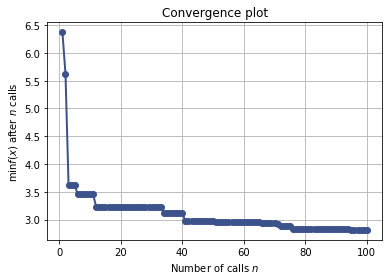
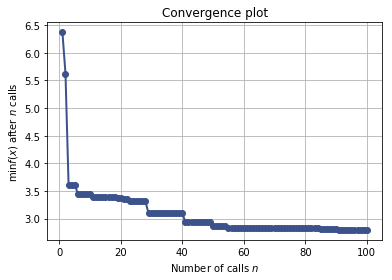
Pushing the docs for revision for branch: master, commit efb365e90501e20db09acf47596db9e94e002c56

diff --git a/notebooks/bayesian-optimization.html b/notebooks/bayesian-optimization.html
@@ -1223,50 +1223,50 @@ controlling the exploration-exploitation trade-off.
              kernel=1**2 * Matern(length_scale=1, nu=2.5) + WhiteKernel(noise_level=0.01),
              n_restarts_optimizer=2, noise=0.010000000000000002,
              normalize_y=True, optimizer=&#39;fmin_l_bfgs_b&#39;,
-             random_state=&lt;mtrand.RandomState object at 0x7f1e6af8ebd0&gt;), GaussianProcessRegressor(alpha=0.0, copy_X_train=True,
+             random_state=&lt;mtrand.RandomState object at 0x7f6cd4b73bd0&gt;), GaussianProcessRegressor(alpha=0.0, copy_X_train=True,
              kernel=1**2 * Matern(length_scale=1, nu=2.5) + WhiteKernel(noise_level=0.01),
              n_restarts_optimizer=2, noise=0.010000000000000002,
              normalize_y=True, optimizer=&#39;fmin_l_bfgs_b&#39;,
-             random_state=&lt;mtrand.RandomState object at 0x7f1e6afa0870&gt;), GaussianProcessRegressor(alpha=0.0, copy_X_train=True,
+             random_state=&lt;mtrand.RandomState object at 0x7f6cd4b85870&gt;), GaussianProcessRegressor(alpha=0.0, copy_X_train=True,
              kernel=1**2 * Matern(length_scale=1, nu=2.5) + WhiteKernel(noise_level=0.01),
              n_restarts_optimizer=2, noise=0.010000000000000002,
              normalize_y=True, optimizer=&#39;fmin_l_bfgs_b&#39;,
-             random_state=&lt;mtrand.RandomState object at 0x7f1e6afa0c60&gt;), GaussianProcessRegressor(alpha=0.0, copy_X_train=True,
+             random_state=&lt;mtrand.RandomState object at 0x7f6cd4b85c60&gt;), GaussianProcessRegressor(alpha=0.0, copy_X_train=True,
              kernel=1**2 * Matern(length_scale=1, nu=2.5) + WhiteKernel(noise_level=0.01),
              n_restarts_optimizer=2, noise=0.010000000000000002,
              normalize_y=True, optimizer=&#39;fmin_l_bfgs_b&#39;,
-             random_state=&lt;mtrand.RandomState object at 0x7f1e6afa08b8&gt;), GaussianProcessRegressor(alpha=0.0, copy_X_train=True,
+             random_state=&lt;mtrand.RandomState object at 0x7f6cd4b858b8&gt;), GaussianProcessRegressor(alpha=0.0, copy_X_train=True,
              kernel=1**2 * Matern(length_scale=1, nu=2.5) + WhiteKernel(noise_level=0.01),
              n_restarts_optimizer=2, noise=0.010000000000000002,
              normalize_y=True, optimizer=&#39;fmin_l_bfgs_b&#39;,
-             random_state=&lt;mtrand.RandomState object at 0x7f1e6af9aea0&gt;), GaussianProcessRegressor(alpha=0.0, copy_X_train=True,
+             random_state=&lt;mtrand.RandomState object at 0x7f6cd4b76ea0&gt;), GaussianProcessRegressor(alpha=0.0, copy_X_train=True,
              kernel=1**2 * Matern(length_scale=1, nu=2.5) + WhiteKernel(noise_level=0.01),
              n_restarts_optimizer=2, noise=0.010000000000000002,
              normalize_y=True, optimizer=&#39;fmin_l_bfgs_b&#39;,
-             random_state=&lt;mtrand.RandomState object at 0x7f1e75dc87e0&gt;), GaussianProcessRegressor(alpha=0.0, copy_X_train=True,
+             random_state=&lt;mtrand.RandomState object at 0x7f6cdf9ad708&gt;), GaussianProcessRegressor(alpha=0.0, copy_X_train=True,
              kernel=1**2 * Matern(length_scale=1, nu=2.5) + WhiteKernel(noise_level=0.01),
              n_restarts_optimizer=2, noise=0.010000000000000002,
              normalize_y=True, optimizer=&#39;fmin_l_bfgs_b&#39;,
-             random_state=&lt;mtrand.RandomState object at 0x7f1e75dc8360&gt;), GaussianProcessRegressor(alpha=0.0, copy_X_train=True,
+             random_state=&lt;mtrand.RandomState object at 0x7f6cdf9add80&gt;), GaussianProcessRegressor(alpha=0.0, copy_X_train=True,
              kernel=1**2 * Matern(length_scale=1, nu=2.5) + WhiteKernel(noise_level=0.01),
              n_restarts_optimizer=2, noise=0.010000000000000002,
              normalize_y=True, optimizer=&#39;fmin_l_bfgs_b&#39;,
-             random_state=&lt;mtrand.RandomState object at 0x7f1e75e332d0&gt;), GaussianProcessRegressor(alpha=0.0, copy_X_train=True,
+             random_state=&lt;mtrand.RandomState object at 0x7f6cdfa18048&gt;), GaussianProcessRegressor(alpha=0.0, copy_X_train=True,
              kernel=1**2 * Matern(length_scale=1, nu=2.5) + WhiteKernel(noise_level=0.01),
              n_restarts_optimizer=2, noise=0.010000000000000002,
              normalize_y=True, optimizer=&#39;fmin_l_bfgs_b&#39;,
-             random_state=&lt;mtrand.RandomState object at 0x7f1e75e33240&gt;), GaussianProcessRegressor(alpha=0.0, copy_X_train=True,
+             random_state=&lt;mtrand.RandomState object at 0x7f6cdfa18dc8&gt;), GaussianProcessRegressor(alpha=0.0, copy_X_train=True,
              kernel=1**2 * Matern(length_scale=1, nu=2.5) + WhiteKernel(noise_level=0.01),
              n_restarts_optimizer=2, noise=0.010000000000000002,
              normalize_y=True, optimizer=&#39;fmin_l_bfgs_b&#39;,
-             random_state=&lt;mtrand.RandomState object at 0x7f1e75e33510&gt;)]
- random_state: &lt;mtrand.RandomState object at 0x7f1e6af8e3a8&gt;
+             random_state=&lt;mtrand.RandomState object at 0x7f6cdfa182d0&gt;)]
+ random_state: &lt;mtrand.RandomState object at 0x7f6cd4b733a8&gt;
         space: Space([Real(low=-2.0, high=2.0, prior=uniform, transform=identity)])
         specs: {&#39;args&#39;: {&#39;n_jobs&#39;: 1, &#39;kappa&#39;: 1.96, &#39;xi&#39;: 0.01, &#39;n_restarts_optimizer&#39;: 5, &#39;n_points&#39;: 10000, &#39;callback&#39;: None, &#39;verbose&#39;: False, &#39;random_state&#39;: 123, &#39;y0&#39;: None, &#39;x0&#39;: None, &#39;acq_optimizer&#39;: &#39;lbfgs&#39;, &#39;acq_func&#39;: &#39;EI&#39;, &#39;n_random_starts&#39;: 5, &#39;n_calls&#39;: 15, &#39;base_estimator&#39;: GaussianProcessRegressor(alpha=0.0, copy_X_train=True,
              kernel=1**2 * Matern(length_scale=1, nu=2.5),
              n_restarts_optimizer=2, noise=0.010000000000000002,
              normalize_y=True, optimizer=&#39;fmin_l_bfgs_b&#39;,
-             random_state=&lt;mtrand.RandomState object at 0x7f1e6af8aa68&gt;), &#39;dimensions&#39;: [(-2.0, 2.0)], &#39;func&#39;: &lt;function f at 0x7f1e78751e18&gt;}, &#39;function&#39;: &#39;base_minimize&#39;}
+             random_state=&lt;mtrand.RandomState object at 0x7f6cd4b6fa68&gt;), &#39;dimensions&#39;: [(-2.0, 2.0)], &#39;func&#39;: &lt;function f at 0x7f6ce2336e18&gt;}, &#39;function&#39;: &#39;base_minimize&#39;}
             x: [-0.31431138440779044]
       x_iters: [[0.785876742391447], [-0.85544266019848192], [-1.0925941857431873], [0.20525907633156537], [0.87787587914225274], [1.0930078275284341], [-1.5825827673513784], [-1.8740230637856119], [2.0], [1.5920603878809245], [-1.3948575246313788], [0.91055125717293051], [-0.38405568669965967], [-0.31431138440779044], [-0.30894059735758106]]
 </pre></div>

diff --git a/index.html b/index.html
@@ -3024,9 +3024,9 @@ bayesian optimisation loop.</p>
                                    <span class="s2">&quot;model has been fit.&quot;</span><span class="p">)</span>
 
             <span class="n">next_x</span> <span class="o">=</span> <span class="bp">self</span><span class="o">.</span><span class="n">_next_x</span>
-            <span class="n">min_delta_x</span> <span class="o">=</span> <span class="n">np</span><span class="o">.</span><span class="n">min</span><span class="p">([</span><span class="bp">self</span><span class="o">.</span><span class="n">space</span><span class="o">.</span><span class="n">distance</span><span class="p">(</span><span class="n">next_x</span><span class="p">,</span> <span class="n">xi</span><span class="p">)</span>
-                                  <span class="k">for</span> <span class="n">xi</span> <span class="ow">in</span> <span class="bp">self</span><span class="o">.</span><span class="n">Xi</span><span class="p">])</span>
-            <span class="k">if</span> <span class="n">np</span><span class="o">.</span><span class="n">allclose</span><span class="p">(</span><span class="n">min_delta_x</span><span class="p">,</span> <span class="mf">0.</span><span class="p">):</span>
+            <span class="n">min_delta_x</span> <span class="o">=</span> <span class="nb">min</span><span class="p">([</span><span class="bp">self</span><span class="o">.</span><span class="n">space</span><span class="o">.</span><span class="n">distance</span><span class="p">(</span><span class="n">next_x</span><span class="p">,</span> <span class="n">xi</span><span class="p">)</span>
+                               <span class="k">for</span> <span class="n">xi</span> <span class="ow">in</span> <span class="bp">self</span><span class="o">.</span><span class="n">Xi</span><span class="p">])</span>
+            <span class="k">if</span> <span class="nb">abs</span><span class="p">(</span><span class="n">min_delta_x</span><span class="p">)</span> <span class="o">&lt;=</span> <span class="mf">1e-8</span><span class="p">:</span>
                 <span class="n">warnings</span><span class="o">.</span><span class="n">warn</span><span class="p">(</span><span class="s2">&quot;The objective has been evaluated &quot;</span>
                               <span class="s2">&quot;at this point before.&quot;</span><span class="p">)</span>
 
@@ -3259,9 +3259,9 @@ that <code>base_estimator</code> is used to determine the next point.</p></div>
             <span class="k">raise</span> <span class="ne">RuntimeError</span><span class="p">(</span><span class="s2">&quot;Random evaluations exhausted and no &quot;</span>
                                <span class="s2">&quot;model has been fit.&quot;</span><span class="p">)</span>
         <span class="n">next_x</span> <span class="o">=</span> <span class="bp">self</span><span class="o">.</span><span class="n">_next_x</span>
-        <span class="n">min_delta_x</span> <span class="o">=</span> <span class="n">np</span><span class="o">.</span><span class="n">min</span><span class="p">([</span><span class="bp">self</span><span class="o">.</span><span class="n">space</span><span class="o">.</span><span class="n">distance</span><span class="p">(</span><span class="n">next_x</span><span class="p">,</span> <span class="n">xi</span><span class="p">)</span>
-                              <span class="k">for</span> <span class="n">xi</span> <span class="ow">in</span> <span class="bp">self</span><span class="o">.</span><span class="n">Xi</span><span class="p">])</span>
-        <span class="k">if</span> <span class="n">np</span><span class="o">.</span><span class="n">allclose</span><span class="p">(</span><span class="n">min_delta_x</span><span class="p">,</span> <span class="mf">0.</span><span class="p">):</span>
+        <span class="n">min_delta_x</span> <span class="o">=</span> <span class="nb">min</span><span class="p">([</span><span class="bp">self</span><span class="o">.</span><span class="n">space</span><span class="o">.</span><span class="n">distance</span><span class="p">(</span><span class="n">next_x</span><span class="p">,</span> <span class="n">xi</span><span class="p">)</span>
+                           <span class="k">for</span> <span class="n">xi</span> <span class="ow">in</span> <span class="bp">self</span><span class="o">.</span><span class="n">Xi</span><span class="p">])</span>
+        <span class="k">if</span> <span class="nb">abs</span><span class="p">(</span><span class="n">min_delta_x</span><span class="p">)</span> <span class="o">&lt;=</span> <span class="mf">1e-8</span><span class="p">:</span>
             <span class="n">warnings</span><span class="o">.</span><span class="n">warn</span><span class="p">(</span><span class="s2">&quot;The objective has been evaluated &quot;</span>
                           <span class="s2">&quot;at this point before.&quot;</span><span class="p">)</span>
         <span class="c1"># return point computed from last call to tell()</span>

diff --git a/optimizer/index.html b/optimizer/index.html
@@ -3160,9 +3160,9 @@ bayesian optimisation loop.</p>
                                    <span class="s2">&quot;model has been fit.&quot;</span><span class="p">)</span>
 
             <span class="n">next_x</span> <span class="o">=</span> <span class="bp">self</span><span class="o">.</span><span class="n">_next_x</span>
-            <span class="n">min_delta_x</span> <span class="o">=</span> <span class="n">np</span><span class="o">.</span><span class="n">min</span><span class="p">([</span><span class="bp">self</span><span class="o">.</span><span class="n">space</span><span class="o">.</span><span class="n">distance</span><span class="p">(</span><span class="n">next_x</span><span class="p">,</span> <span class="n">xi</span><span class="p">)</span>
-                                  <span class="k">for</span> <span class="n">xi</span> <span class="ow">in</span> <span class="bp">self</span><span class="o">.</span><span class="n">Xi</span><span class="p">])</span>
-            <span class="k">if</span> <span class="n">np</span><span class="o">.</span><span class="n">allclose</span><span class="p">(</span><span class="n">min_delta_x</span><span class="p">,</span> <span class="mf">0.</span><span class="p">):</span>
+            <span class="n">min_delta_x</span> <span class="o">=</span> <span class="nb">min</span><span class="p">([</span><span class="bp">self</span><span class="o">.</span><span class="n">space</span><span class="o">.</span><span class="n">distance</span><span class="p">(</span><span class="n">next_x</span><span class="p">,</span> <span class="n">xi</span><span class="p">)</span>
+                               <span class="k">for</span> <span class="n">xi</span> <span class="ow">in</span> <span class="bp">self</span><span class="o">.</span><span class="n">Xi</span><span class="p">])</span>
+            <span class="k">if</span> <span class="nb">abs</span><span class="p">(</span><span class="n">min_delta_x</span><span class="p">)</span> <span class="o">&lt;=</span> <span class="mf">1e-8</span><span class="p">:</span>
                 <span class="n">warnings</span><span class="o">.</span><span class="n">warn</span><span class="p">(</span><span class="s2">&quot;The objective has been evaluated &quot;</span>
                               <span class="s2">&quot;at this point before.&quot;</span><span class="p">)</span>
 
@@ -3395,9 +3395,9 @@ that <code>base_estimator</code> is used to determine the next point.</p></div>
             <span class="k">raise</span> <span class="ne">RuntimeError</span><span class="p">(</span><span class="s2">&quot;Random evaluations exhausted and no &quot;</span>
                                <span class="s2">&quot;model has been fit.&quot;</span><span class="p">)</span>
         <span class="n">next_x</span> <span class="o">=</span> <span class="bp">self</span><span class="o">.</span><span class="n">_next_x</span>
-        <span class="n">min_delta_x</span> <span class="o">=</span> <span class="n">np</span><span class="o">.</span><span class="n">min</span><span class="p">([</span><span class="bp">self</span><span class="o">.</span><span class="n">space</span><span class="o">.</span><span class="n">distance</span><span class="p">(</span><span class="n">next_x</span><span class="p">,</span> <span class="n">xi</span><span class="p">)</span>
-                              <span class="k">for</span> <span class="n">xi</span> <span class="ow">in</span> <span class="bp">self</span><span class="o">.</span><span class="n">Xi</span><span class="p">])</span>
-        <span class="k">if</span> <span class="n">np</span><span class="o">.</span><span class="n">allclose</span><span class="p">(</span><span class="n">min_delta_x</span><span class="p">,</span> <span class="mf">0.</span><span class="p">):</span>
+        <span class="n">min_delta_x</span> <span class="o">=</span> <span class="nb">min</span><span class="p">([</span><span class="bp">self</span><span class="o">.</span><span class="n">space</span><span class="o">.</span><span class="n">distance</span><span class="p">(</span><span class="n">next_x</span><span class="p">,</span> <span class="n">xi</span><span class="p">)</span>
+                           <span class="k">for</span> <span class="n">xi</span> <span class="ow">in</span> <span class="bp">self</span><span class="o">.</span><span class="n">Xi</span><span class="p">])</span>
+        <span class="k">if</span> <span class="nb">abs</span><span class="p">(</span><span class="n">min_delta_x</span><span class="p">)</span> <span class="o">&lt;=</span> <span class="mf">1e-8</span><span class="p">:</span>
             <span class="n">warnings</span><span class="o">.</span><span class="n">warn</span><span class="p">(</span><span class="s2">&quot;The objective has been evaluated &quot;</span>
                           <span class="s2">&quot;at this point before.&quot;</span><span class="p">)</span>
         <span class="c1"># return point computed from last call to tell()</span>

diff --git a/notebooks/ask-and-tell.html b/notebooks/ask-and-tell.html
@@ -1119,7 +1119,7 @@ table {
 </pre></div>
 
 
-<div class="codehilite"><pre><span></span>&lt;matplotlib.figure.Figure at 0x7f9ce533e518&gt;
+<div class="codehilite"><pre><span></span>&lt;matplotlib.figure.Figure at 0x7f27547f3588&gt;
 </pre></div>
 
 
@@ -1198,7 +1198,7 @@ optimizer:</p>
 <div class="codehilite"><pre><span></span>          fun: -0.063856745472530174
     func_vals: array([-0.06385675])
        models: []
- random_state: &lt;mtrand.RandomState object at 0x7f9ce409ff78&gt;
+ random_state: &lt;mtrand.RandomState object at 0x7f274c03eee8&gt;
         space: Space([Real(low=-2.0, high=2.0, prior=uniform, transform=identity)])
         specs: None
             x: [-1.3229420461664514]

diff --git a/notebooks/hyperparameter-optimization.html b/notebooks/hyperparameter-optimization.html
@@ -1164,7 +1164,7 @@ Katie Malone, August 2016</p>
 </pre></div>
 
 
-<div class="codehilite"><pre><span></span>&#39;Best score=2.8129&#39;
+<div class="codehilite"><pre><span></span>&#39;Best score=2.7947&#39;
 </pre></div>
 
 
@@ -1180,10 +1180,10 @@ Katie Malone, August 2016</p>
 
 
 <div class="codehilite"><pre><span></span>Best parameters:
-- max_depth=5
-- learning_rate=0.143466
-- max_features=10
-- min_samples_split=39
+- max_depth=3
+- learning_rate=0.133397
+- max_features=9
+- min_samples_split=44
 - min_samples_leaf=1
 </pre></div>
 

diff --git a/notebooks/strategy-comparison.html b/notebooks/strategy-comparison.html
@@ -1119,7 +1119,7 @@ table {
 </pre></div>
 
 
-<div class="codehilite"><pre><span></span>&lt;matplotlib.figure.Figure at 0x7fe5246cec50&gt;
+<div class="codehilite"><pre><span></span>&lt;matplotlib.figure.Figure at 0x7f6051231f60&gt;
 </pre></div>
 
 

diff --git a/notebooks/visualizing-results.html b/notebooks/visualizing-results.html
@@ -1119,7 +1119,7 @@ table {
 </pre></div>
 
 
-<div class="codehilite"><pre><span></span>&lt;matplotlib.figure.Figure at 0x7fd6995a3e80&gt;
+<div class="codehilite"><pre><span></span>&lt;matplotlib.figure.Figure at 0x7fd1704e5710&gt;
 </pre></div>
 
 

diff --git a/notebooks/bayesian-optimization.md b/notebooks/bayesian-optimization.md
@@ -135,50 +135,50 @@ print(res)
                  kernel=1**2 * Matern(length_scale=1, nu=2.5) + WhiteKernel(noise_level=0.01),
                  n_restarts_optimizer=2, noise=0.010000000000000002,
                  normalize_y=True, optimizer='fmin_l_bfgs_b',
-                 random_state=<mtrand.RandomState object at 0x7f1e6af8ebd0>), GaussianProcessRegressor(alpha=0.0, copy_X_train=True,
+                 random_state=<mtrand.RandomState object at 0x7f6cd4b73bd0>), GaussianProcessRegressor(alpha=0.0, copy_X_train=True,
                  kernel=1**2 * Matern(length_scale=1, nu=2.5) + WhiteKernel(noise_level=0.01),
                  n_restarts_optimizer=2, noise=0.010000000000000002,
                  normalize_y=True, optimizer='fmin_l_bfgs_b',
-                 random_state=<mtrand.RandomState object at 0x7f1e6afa0870>), GaussianProcessRegressor(alpha=0.0, copy_X_train=True,
+                 random_state=<mtrand.RandomState object at 0x7f6cd4b85870>), GaussianProcessRegressor(alpha=0.0, copy_X_train=True,
                  kernel=1**2 * Matern(length_scale=1, nu=2.5) + WhiteKernel(noise_level=0.01),
                  n_restarts_optimizer=2, noise=0.010000000000000002,
                  normalize_y=True, optimizer='fmin_l_bfgs_b',
-                 random_state=<mtrand.RandomState object at 0x7f1e6afa0c60>), GaussianProcessRegressor(alpha=0.0, copy_X_train=True,
+                 random_state=<mtrand.RandomState object at 0x7f6cd4b85c60>), GaussianProcessRegressor(alpha=0.0, copy_X_train=True,
                  kernel=1**2 * Matern(length_scale=1, nu=2.5) + WhiteKernel(noise_level=0.01),
                  n_restarts_optimizer=2, noise=0.010000000000000002,
                  normalize_y=True, optimizer='fmin_l_bfgs_b',
-                 random_state=<mtrand.RandomState object at 0x7f1e6afa08b8>), GaussianProcessRegressor(alpha=0.0, copy_X_train=True,
+                 random_state=<mtrand.RandomState object at 0x7f6cd4b858b8>), GaussianProcessRegressor(alpha=0.0, copy_X_train=True,
                  kernel=1**2 * Matern(length_scale=1, nu=2.5) + WhiteKernel(noise_level=0.01),
                  n_restarts_optimizer=2, noise=0.010000000000000002,
                  normalize_y=True, optimizer='fmin_l_bfgs_b',
-                 random_state=<mtrand.RandomState object at 0x7f1e6af9aea0>), GaussianProcessRegressor(alpha=0.0, copy_X_train=True,
+                 random_state=<mtrand.RandomState object at 0x7f6cd4b76ea0>), GaussianProcessRegressor(alpha=0.0, copy_X_train=True,
                  kernel=1**2 * Matern(length_scale=1, nu=2.5) + WhiteKernel(noise_level=0.01),
                  n_restarts_optimizer=2, noise=0.010000000000000002,
                  normalize_y=True, optimizer='fmin_l_bfgs_b',
-                 random_state=<mtrand.RandomState object at 0x7f1e75dc87e0>), GaussianProcessRegressor(alpha=0.0, copy_X_train=True,
+                 random_state=<mtrand.RandomState object at 0x7f6cdf9ad708>), GaussianProcessRegressor(alpha=0.0, copy_X_train=True,
                  kernel=1**2 * Matern(length_scale=1, nu=2.5) + WhiteKernel(noise_level=0.01),
                  n_restarts_optimizer=2, noise=0.010000000000000002,
                  normalize_y=True, optimizer='fmin_l_bfgs_b',
-                 random_state=<mtrand.RandomState object at 0x7f1e75dc8360>), GaussianProcessRegressor(alpha=0.0, copy_X_train=True,
+                 random_state=<mtrand.RandomState object at 0x7f6cdf9add80>), GaussianProcessRegressor(alpha=0.0, copy_X_train=True,
                  kernel=1**2 * Matern(length_scale=1, nu=2.5) + WhiteKernel(noise_level=0.01),
                  n_restarts_optimizer=2, noise=0.010000000000000002,
                  normalize_y=True, optimizer='fmin_l_bfgs_b',
-                 random_state=<mtrand.RandomState object at 0x7f1e75e332d0>), GaussianProcessRegressor(alpha=0.0, copy_X_train=True,
+                 random_state=<mtrand.RandomState object at 0x7f6cdfa18048>), GaussianProcessRegressor(alpha=0.0, copy_X_train=True,
                  kernel=1**2 * Matern(length_scale=1, nu=2.5) + WhiteKernel(noise_level=0.01),
                  n_restarts_optimizer=2, noise=0.010000000000000002,
                  normalize_y=True, optimizer='fmin_l_bfgs_b',
-                 random_state=<mtrand.RandomState object at 0x7f1e75e33240>), GaussianProcessRegressor(alpha=0.0, copy_X_train=True,
+                 random_state=<mtrand.RandomState object at 0x7f6cdfa18dc8>), GaussianProcessRegressor(alpha=0.0, copy_X_train=True,
                  kernel=1**2 * Matern(length_scale=1, nu=2.5) + WhiteKernel(noise_level=0.01),
                  n_restarts_optimizer=2, noise=0.010000000000000002,
                  normalize_y=True, optimizer='fmin_l_bfgs_b',
-                 random_state=<mtrand.RandomState object at 0x7f1e75e33510>)]
-     random_state: <mtrand.RandomState object at 0x7f1e6af8e3a8>
+                 random_state=<mtrand.RandomState object at 0x7f6cdfa182d0>)]
+     random_state: <mtrand.RandomState object at 0x7f6cd4b733a8>
             space: Space([Real(low=-2.0, high=2.0, prior=uniform, transform=identity)])
             specs: {'args': {'n_jobs': 1, 'kappa': 1.96, 'xi': 0.01, 'n_restarts_optimizer': 5, 'n_points': 10000, 'callback': None, 'verbose': False, 'random_state': 123, 'y0': None, 'x0': None, 'acq_optimizer': 'lbfgs', 'acq_func': 'EI', 'n_random_starts': 5, 'n_calls': 15, 'base_estimator': GaussianProcessRegressor(alpha=0.0, copy_X_train=True,
                  kernel=1**2 * Matern(length_scale=1, nu=2.5),
                  n_restarts_optimizer=2, noise=0.010000000000000002,
                  normalize_y=True, optimizer='fmin_l_bfgs_b',
-                 random_state=<mtrand.RandomState object at 0x7f1e6af8aa68>), 'dimensions': [(-2.0, 2.0)], 'func': <function f at 0x7f1e78751e18>}, 'function': 'base_minimize'}
+                 random_state=<mtrand.RandomState object at 0x7f6cd4b6fa68>), 'dimensions': [(-2.0, 2.0)], 'func': <function f at 0x7f6ce2336e18>}, 'function': 'base_minimize'}
                 x: [-0.31431138440779044]
           x_iters: [[0.785876742391447], [-0.85544266019848192], [-1.0925941857431873], [0.20525907633156537], [0.87787587914225274], [1.0930078275284341], [-1.5825827673513784], [-1.8740230637856119], [2.0], [1.5920603878809245], [-1.3948575246313788], [0.91055125717293051], [-0.38405568669965967], [-0.31431138440779044], [-0.30894059735758106]]
 

diff --git a/notebooks/ask-and-tell.md b/notebooks/ask-and-tell.md
@@ -14,7 +14,7 @@ plt.set_cmap("viridis")
 ```
 
 
-    <matplotlib.figure.Figure at 0x7f9ce533e518>
+    <matplotlib.figure.Figure at 0x7f27547f3588>
 
 
 Bayesian optimization is used to tune parameters for walking robots or other experiments
@@ -113,7 +113,7 @@ opt.tell(next_x, f_val)
               fun: -0.063856745472530174
         func_vals: array([-0.06385675])
            models: []
-     random_state: <mtrand.RandomState object at 0x7f9ce409ff78>
+     random_state: <mtrand.RandomState object at 0x7f274c03eee8>
             space: Space([Real(low=-2.0, high=2.0, prior=uniform, transform=identity)])
             specs: None
                 x: [-1.3229420461664514]

diff --git a/notebooks/hyperparameter-optimization.md b/notebooks/hyperparameter-optimization.md
@@ -72,7 +72,7 @@ res_gp = gp_minimize(objective, space, n_calls=100, random_state=0)
 
 
 
-    'Best score=2.8129'
+    'Best score=2.7947'
 
 
 
@@ -89,10 +89,10 @@ print("""Best parameters:
 ```
 
     Best parameters:
-    - max_depth=5
-    - learning_rate=0.143466
-    - max_features=10
-    - min_samples_split=39
+    - max_depth=3
+    - learning_rate=0.133397
+    - max_features=9
+    - min_samples_split=44
     - min_samples_leaf=1
 
 

diff --git a/notebooks/strategy-comparison.md b/notebooks/strategy-comparison.md
@@ -14,7 +14,7 @@ plt.set_cmap("viridis")
 ```
 
 
-    <matplotlib.figure.Figure at 0x7fe5246cec50>
+    <matplotlib.figure.Figure at 0x7f6051231f60>
 
 
 Bayesian optimization or sequential model-based optimization uses a surrogate model

diff --git a/notebooks/visualizing-results.md b/notebooks/visualizing-results.md
@@ -14,7 +14,7 @@ plt.set_cmap("viridis")
 ```
 
 
-    <matplotlib.figure.Figure at 0x7fd6995a3e80>
+    <matplotlib.figure.Figure at 0x7fd1704e5710>
 
 
 Bayesian optimization or sequential model-based optimization uses a surrogate model
